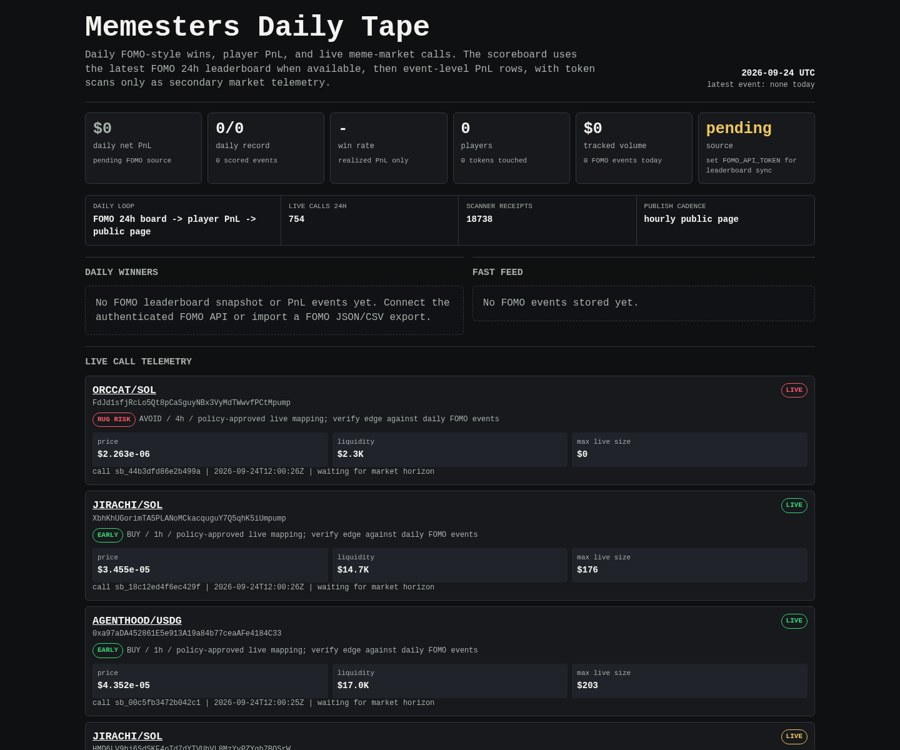
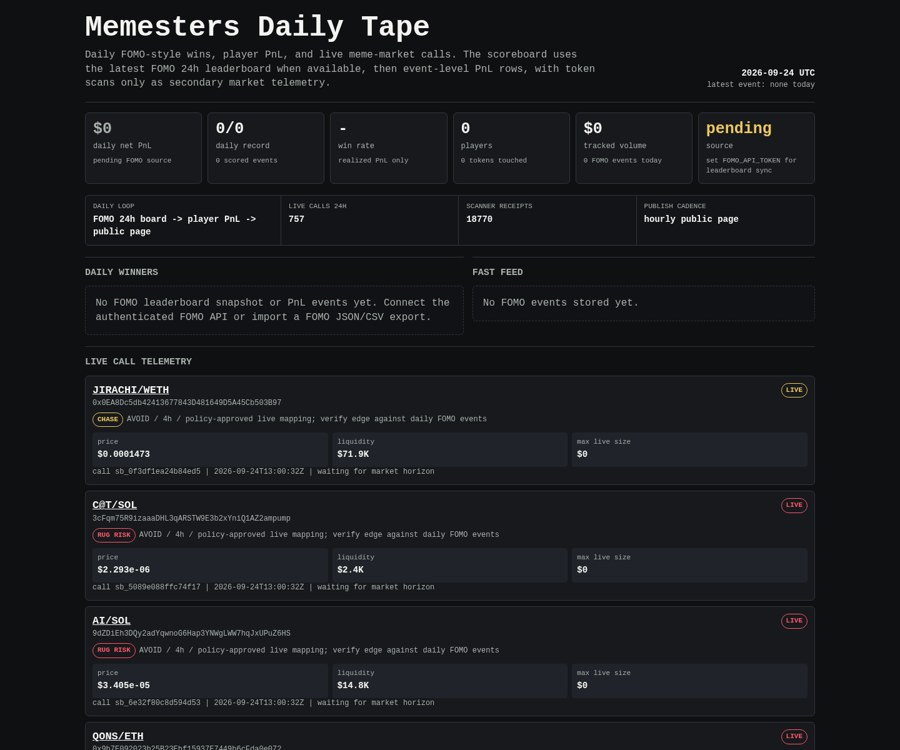
Update Memesters scoreboard

diff --git a/memesters/index.html b/memesters/index.html
@@ -149,8 +149,8 @@
 
     <div class="rail" aria-label="live operating loop">
       <div><span>daily loop</span><b>FOMO 24h board -> player PnL -> public page</b></div>
-      <div><span>live calls 24h</span><b>754</b></div>
-      <div><span>scanner receipts</span><b>18738</b></div>
+      <div><span>live calls 24h</span><b>757</b></div>
+      <div><span>scanner receipts</span><b>18770</b></div>
       <div><span>publish cadence</span><b>hourly public page</b></div>
     </div>
 
@@ -171,8 +171,29 @@
     <article class="receipt">
       <div class="receipt-head">
         <div>
-          <div class="pair"><a href="https://dexscreener.com/solana/2dbsvexhxyrkfte5bjnam1fgcdduohkswhtqviohlkds">ORCCAT/SOL</a></div>
-          <div class="addr">FdJd1sfjRcLo5Qt8pCaSguyNBx3VyMdTWwvfPCtMpump</div>
+          <div class="pair"><a href="https://dexscreener.com/robinhood/0xac9fee60bbf4c04070ee8cc69b406f152ab2ea06">JIRACHI/WETH</a></div>
+          <div class="addr">0x0EA8Dc5db42413677843D481649D5A45Cb503B97</div>
+          <div class="addr policy-line">
+            <span class="badge chase">CHASE</span>
+            <span>AVOID / 4h / policy-approved live mapping; verify edge against daily FOMO events</span>
+          </div>
+        </div>
+        <span class="badge chase">LIVE</span>
+      </div>
+      <div class="receipt-grid">
+        <div class="kv"><span>price</span><b>$0.0001473</b></div>
+        <div class="kv"><span>liquidity</span><b>$71.9K</b></div>
+        <div class="kv"><span>max live size</span><b>$0</b></div>
+      </div>
+      <div class="outcomes">call sb_0f3df1ea24b84ed5 | 2026-09-24T13:00:32Z | waiting for market horizon</div>
+    </article>
+    
+
+    <article class="receipt">
+      <div class="receipt-head">
+        <div>
+          <div class="pair"><a href="https://dexscreener.com/solana/fq843hxgsswwjkngyiudabyoadknbp5hpfvmmnt1aj1x">C@T/SOL</a></div>
+          <div class="addr">3cFqm75R9izaaaDHL3qARSTW9E3b2xYniQ1AZ2ampump</div>
           <div class="addr policy-line">
             <span class="badge rug-risk">RUG RISK</span>
             <span>AVOID / 4h / policy-approved live mapping; verify edge against daily FOMO events</span>
@@ -181,145 +202,19 @@
         <span class="badge rug-risk">LIVE</span>
       </div>
       <div class="receipt-grid">
-        <div class="kv"><span>price</span><b>$2.263e-06</b></div>
-        <div class="kv"><span>liquidity</span><b>$2.3K</b></div>
+        <div class="kv"><span>price</span><b>$2.293e-06</b></div>
+        <div class="kv"><span>liquidity</span><b>$2.4K</b></div>
         <div class="kv"><span>max live size</span><b>$0</b></div>
       </div>
-      <div class="outcomes">call sb_44b3dfd86e2b499a | 2026-09-24T12:00:26Z | waiting for market horizon</div>
+      <div class="outcomes">call sb_5089e088ffc74f17 | 2026-09-24T13:00:32Z | waiting for market horizon</div>
     </article>
     
 
     <article class="receipt">
       <div class="receipt-head">
         <div>
-          <div class="pair"><a href="https://dexscreener.com/solana/azshgyg66hrgmfkjnaylz31t6sujvo1pjj2gqwcpubds">JIRACHI/SOL</a></div>
-          <div class="addr">XbhKhUGorimTA5PLANoMCkacquguY7Q5qhK5iUmpump</div>
-          <div class="addr policy-line">
-            <span class="badge early">EARLY</span>
-            <span>BUY / 1h / policy-approved live mapping; verify edge against daily FOMO events</span>
-          </div>
-        </div>
-        <span class="badge early">LIVE</span>
-      </div>
-      <div class="receipt-grid">
-        <div class="kv"><span>price</span><b>$3.455e-05</b></div>
-        <div class="kv"><span>liquidity</span><b>$14.7K</b></div>
-        <div class="kv"><span>max live size</span><b>$176</b></div>
-      </div>
-      <div class="outcomes">call sb_18c12ed4f6ec429f | 2026-09-24T12:00:26Z | waiting for market horizon</div>
-    </article>
-    
-
-    <article class="receipt">
-      <div class="receipt-head">
-        <div>
-          <div class="pair"><a href="https://dexscreener.com/robinhood/0x21406527cf848a3383e523c69b1f4c6d878bfcaee8ef8a7bbda810b523abb92c">AGENTHOOD/USDG</a></div>
-          <div class="addr">0xa97aDA452861E5e913A19a84b77ceaAFe4184C33</div>
-          <div class="addr policy-line">
-            <span class="badge early">EARLY</span>
-            <span>BUY / 1h / policy-approved live mapping; verify edge against daily FOMO events</span>
-          </div>
-        </div>
-        <span class="badge early">LIVE</span>
-      </div>
-      <div class="receipt-grid">
-        <div class="kv"><span>price</span><b>$4.352e-05</b></div>
-        <div class="kv"><span>liquidity</span><b>$17.0K</b></div>
-        <div class="kv"><span>max live size</span><b>$203</b></div>
-      </div>
-      <div class="outcomes">call sb_00c5fb3472b042c1 | 2026-09-24T12:00:25Z | waiting for market horizon</div>
-    </article>
-    
-
-    <article class="receipt">
-      <div class="receipt-head">
-        <div>
-          <div class="pair"><a href="https://dexscreener.com/solana/2jgebsxh9bznbez1txyghhngibbgaz4fhaevfxt4sqfm">JIRACHI/SOL</a></div>
-          <div class="addr">HMD6LV9hj6SdSKF4oTd7dYTVUhVL8MzYvPZYgb7BQSrW</div>
-          <div class="addr policy-line">
-            <span class="badge chase">CHASE</span>
-            <span>AVOID / 4h / policy-approved live mapping; verify edge against daily FOMO events</span>
-          </div>
-        </div>
-        <span class="badge chase">LIVE</span>
-      </div>
-      <div class="receipt-grid">
-        <div class="kv"><span>price</span><b>$0.0005987</b></div>
-        <div class="kv"><span>liquidity</span><b>$90.1K</b></div>
-        <div class="kv"><span>max live size</span><b>$0</b></div>
-      </div>
-      <div class="outcomes">call sb_291593d9ba214fd3 | 2026-09-24T12:00:25Z | waiting for market horizon</div>
-    </article>
-    
-
-    <article class="receipt">
-      <div class="receipt-head">
-        <div>
-          <div class="pair"><a href="https://dexscreener.com/robinhood/0x507006dfe188d49a8576240570782a222114f849">WUG/WETH</a></div>
-          <div class="addr">0xfd7C08E130d95b26C80F4cC8ffdb2FFB189fe2b2</div>
-          <div class="addr policy-line">
-            <span class="badge early">EARLY</span>
-            <span>BUY / 1h / policy-approved live mapping; verify edge against daily FOMO events</span>
-          </div>
-        </div>
-        <span class="badge early">LIVE</span>
-      </div>
-      <div class="receipt-grid">
-        <div class="kv"><span>price</span><b>$1.016e-05</b></div>
-        <div class="kv"><span>liquidity</span><b>$8.6K</b></div>
-        <div class="kv"><span>max live size</span><b>$26</b></div>
-      </div>
-      <div class="outcomes">call sb_dbdecb176a894f93 | 2026-09-24T12:00:25Z | waiting for market horizon</div>
-    </article>
-    
-
-    <article class="receipt">
-      <div class="receipt-head">
-        <div>
-          <div class="pair"><a href="https://dexscreener.com/robinhood/0x7b282a8b7f37bc92e4906969d8a46f836cb21605cf330ce0c33607fb1075c1df">RHV/ETH</a></div>
-          <div class="addr">0x82c860E9fF0227E086CB6107dA4D3632031D9831</div>
-          <div class="addr policy-line">
-            <span class="badge chase">CHASE</span>
-            <span>AVOID / 4h / policy-approved live mapping; verify edge against daily FOMO events</span>
-          </div>
-        </div>
-        <span class="badge chase">LIVE</span>
-      </div>
-      <div class="receipt-grid">
-        <div class="kv"><span>price</span><b>$0.001419</b></div>
-        <div class="kv"><span>liquidity</span><b>$112.5K</b></div>
-        <div class="kv"><span>max live size</span><b>$0</b></div>
-      </div>
-      <div class="outcomes">call sb_c5e54e1360724ca9 | 2026-09-24T12:00:25Z | waiting for market horizon</div>
-    </article>
-    
-
-    <article class="receipt">
-      <div class="receipt-head">
-        <div>
-          <div class="pair"><a href="https://dexscreener.com/arc/0xed979d863d639a72771df12f12fc2c9d7e21a6cf79b2859ea07ebde1314175ab">https/USDC</a></div>
-          <div class="addr">0xcA178326937DCF04157F2E6370674655c57D7A75</div>
-          <div class="addr policy-line">
-            <span class="badge chase">CHASE</span>
-            <span>AVOID / 4h / policy-approved live mapping; verify edge against daily FOMO events</span>
-          </div>
-        </div>
-        <span class="badge chase">LIVE</span>
-      </div>
-      <div class="receipt-grid">
-        <div class="kv"><span>price</span><b>$1.804e-05</b></div>
-        <div class="kv"><span>liquidity</span><b>$10.9K</b></div>
-        <div class="kv"><span>max live size</span><b>$0</b></div>
-      </div>
-      <div class="outcomes">call sb_a638a20d71f84ba1 | 2026-09-24T12:00:25Z | waiting for market horizon</div>
-    </article>
-    
-
-    <article class="receipt">
-      <div class="receipt-head">
-        <div>
-          <div class="pair"><a href="https://dexscreener.com/bsc/0x678cb5b5e12c12b825b12e92166497b707d66d54">CypherPunks/CYPHB</a></div>
-          <div class="addr">0x9e7a35106527449120CF15043899f9e23aC37777</div>
+          <div class="pair"><a href="https://dexscreener.com/solana/arklvttrdcivpgbbmn9pxfa2ynauwkhbty7unqekyrg">AI/SOL</a></div>
+          <div class="addr">9dZDiEh3DQy2adYqwnoG6Hap3YNWgLWW7hqJxUPuZ6HS</div>
           <div class="addr policy-line">
             <span class="badge rug-risk">RUG RISK</span>
             <span>AVOID / 4h / policy-approved live mapping; verify edge against daily FOMO events</span>
@@ -328,19 +223,19 @@
         <span class="badge rug-risk">LIVE</span>
       </div>
       <div class="receipt-grid">
-        <div class="kv"><span>price</span><b>$2.811e-05</b></div>
-        <div class="kv"><span>liquidity</span><b>$13.7K</b></div>
+        <div class="kv"><span>price</span><b>$3.405e-05</b></div>
+        <div class="kv"><span>liquidity</span><b>$14.8K</b></div>
         <div class="kv"><span>max live size</span><b>$0</b></div>
       </div>
-      <div class="outcomes">call sb_39ddaffe5f9349fc | 2026-09-24T12:00:25Z | waiting for market horizon</div>
+      <div class="outcomes">call sb_6e32f80c8d594d53 | 2026-09-24T13:00:32Z | waiting for market horizon</div>
     </article>
     
 
     <article class="receipt">
       <div class="receipt-head">
         <div>
-          <div class="pair"><a href="https://dexscreener.com/solana/dbxthuh558t6nnywiez2xvvrmhque1ypy6qkvqq1jzeu">RWT/GP</a></div>
-          <div class="addr">6tabWKDy8cUuuNLn5VnMkj8ijSmrKhGAprb8uBqV71Mf</div>
+          <div class="pair"><a href="https://dexscreener.com/robinhood/0xb1b2e9704288bc89e1259f43d6b546b9a392f7395a6d9d6f4ecee6af2792b4dc">QONS/ETH</a></div>
+          <div class="addr">0x9b7E092023b25B23Ebf15937E7449b6cFda0e072</div>
           <div class="addr policy-line">
             <span class="badge rug-risk">RUG RISK</span>
             <span>AVOID / 4h / policy-approved live mapping; verify edge against daily FOMO events</span>
@@ -349,19 +244,61 @@
         <span class="badge rug-risk">LIVE</span>
       </div>
       <div class="receipt-grid">
-        <div class="kv"><span>price</span><b>$3.12e-05</b></div>
-        <div class="kv"><span>liquidity</span><b>$15.9K</b></div>
+        <div class="kv"><span>price</span><b>$9.698e-06</b></div>
+        <div class="kv"><span>liquidity</span><b>$9.4K</b></div>
         <div class="kv"><span>max live size</span><b>$0</b></div>
       </div>
-      <div class="outcomes">call sb_f21ddcb0a94045fa | 2026-09-24T11:45:26Z | waiting for market horizon</div>
+      <div class="outcomes">call sb_776aa18207f846d6 | 2026-09-24T13:00:32Z | waiting for market horizon</div>
     </article>
     
 
     <article class="receipt">
       <div class="receipt-head">
         <div>
-          <div class="pair"><a href="https://dexscreener.com/solana/ac9v1xvcdyf7oreihhqjzdwt1zy8kgknhacwk2u3kavc">.agent/SOL</a></div>
-          <div class="addr">G59zeXWwXMw2bb6UJD1ceELXRhNkLXHkYrtBYBV5agnt</div>
+          <div class="pair"><a href="https://dexscreener.com/solana/fehmt7wqfjcltebdwgmbgjiiuhrqhsryn9xm1zwhfhx2">Felis/SOL</a></div>
+          <div class="addr">J4yqaoHpq6VWKSHgnaU6qEM2ncoCCtNAVWxdF77Bpump</div>
+          <div class="addr policy-line">
+            <span class="badge early">EARLY</span>
+            <span>BUY / 1h / policy-approved live mapping; verify edge against daily FOMO events</span>
+          </div>
+        </div>
+        <span class="badge early">LIVE</span>
+      </div>
+      <div class="receipt-grid">
+        <div class="kv"><span>price</span><b>$6.33e-05</b></div>
+        <div class="kv"><span>liquidity</span><b>$20.8K</b></div>
+        <div class="kv"><span>max live size</span><b>$249</b></div>
+      </div>
+      <div class="outcomes">call sb_2d987aa576cd4e22 | 2026-09-24T13:00:32Z | waiting for market horizon</div>
+    </article>
+    
+
+    <article class="receipt">
+      <div class="receipt-head">
+        <div>
+          <div class="pair"><a href="https://dexscreener.com/solana/fxu7xwchdqtxlidkzwruclqn7qbhdbuc4zrgxs8gfqpy">CUMINU/SOL</a></div>
+          <div class="addr">86ZdrdVsXPdQ3mMfoEUYhukshxJvgtttuiczfn2ipump</div>
+          <div class="addr policy-line">
+            <span class="badge early">EARLY</span>
+            <span>BUY / 1h / policy-approved live mapping; verify edge against daily FOMO events</span>
+          </div>
+        </div>
+        <span class="badge early">LIVE</span>
+      </div>
+      <div class="receipt-grid">
+        <div class="kv"><span>price</span><b>$0.000118</b></div>
+        <div class="kv"><span>liquidity</span><b>$29.1K</b></div>
+        <div class="kv"><span>max live size</span><b>$350</b></div>
+      </div>
+      <div class="outcomes">call sb_d2b84990e0304a86 | 2026-09-24T13:00:31Z | waiting for market horizon</div>
+    </article>
+    
+
+    <article class="receipt">
+      <div class="receipt-head">
+        <div>
+          <div class="pair"><a href="https://dexscreener.com/bsc/0xe7d96ee587d5d6120233df826d17b30342f4ca3b">Rat Lab/AMZNB</a></div>
+          <div class="addr">0x2aaA8077b40A5338282015E658aa68E389187777</div>
           <div class="addr policy-line">
             <span class="badge chase">CHASE</span>
             <span>AVOID / 4h / policy-approved live mapping; verify edge against daily FOMO events</span>
@@ -370,11 +307,74 @@
         <span class="badge chase">LIVE</span>
       </div>
       <div class="receipt-grid">
-        <div class="kv"><span>price</span><b>$0.0002614</b></div>
-        <div class="kv"><span>liquidity</span><b>$46.3K</b></div>
+        <div class="kv"><span>price</span><b>$1.445e-05</b></div>
+        <div class="kv"><span>liquidity</span><b>$14.2K</b></div>
         <div class="kv"><span>max live size</span><b>$0</b></div>
       </div>
-      <div class="outcomes">call sb_7ae2a2749e714dbc | 2026-09-24T11:45:26Z | waiting for market horizon</div>
+      <div class="outcomes">call sb_7695f56ad95548c5 | 2026-09-24T13:00:31Z | waiting for market horizon</div>
+    </article>
+    
+
+    <article class="receipt">
+      <div class="receipt-head">
+        <div>
+          <div class="pair"><a href="https://dexscreener.com/solana/brybnvs89addtkmeqmgplydxeupdwwqpnr1slaisnhc6">SANDCAT/SOL</a></div>
+          <div class="addr">hycYxx4mSKC1df6EJq18migjZ5sfBY3a2xHYjmhpump</div>
+          <div class="addr policy-line">
+            <span class="badge early">EARLY</span>
+            <span>BUY / 1h / policy-approved live mapping; verify edge against daily FOMO events</span>
+          </div>
+        </div>
+        <span class="badge early">LIVE</span>
+      </div>
+      <div class="receipt-grid">
+        <div class="kv"><span>price</span><b>$4.689e-05</b></div>
+        <div class="kv"><span>liquidity</span><b>$17.4K</b></div>
+        <div class="kv"><span>max live size</span><b>$101</b></div>
+      </div>
+      <div class="outcomes">call sb_23dd9bcc5d5343dd | 2026-09-24T13:00:31Z | waiting for market horizon</div>
+    </article>
+    
+
+    <article class="receipt">
+      <div class="receipt-head">
+        <div>
+          <div class="pair"><a href="https://dexscreener.com/solana/9tmq92wdtnsj8oa3zyiybsehn41n6b4nadcg3vgrwz5r">ape/xSOL</a></div>
+          <div class="addr">BszGuLK9RLJ7YHgia55kwcWAuTodx1AwGFLGUcDoxRCK</div>
+          <div class="addr policy-line">
+            <span class="badge rug-risk">RUG RISK</span>
+            <span>AVOID / 4h / policy-approved live mapping; verify edge against daily FOMO events</span>
+          </div>
+        </div>
+        <span class="badge rug-risk">LIVE</span>
+      </div>
+      <div class="receipt-grid">
+        <div class="kv"><span>price</span><b>$5.433e-06</b></div>
+        <div class="kv"><span>liquidity</span><b>$6.7K</b></div>
+        <div class="kv"><span>max live size</span><b>$0</b></div>
+      </div>
+      <div class="outcomes">call sb_2f5c988ac1ab4296 | 2026-09-24T12:45:28Z | waiting for market horizon</div>
+    </article>
+    
+
+    <article class="receipt">
+      <div class="receipt-head">
+        <div>
+          <div class="pair"><a href="https://dexscreener.com/arc/0x18262c7386e0b97ca609099e825ea912526377b61de19796a9c24151eadda258">ARCO/USDC</a></div>
+          <div class="addr">0xFDFEa8a291B93ed898A2c2609f7c33bd391fFD4c</div>
+          <div class="addr policy-line">
+            <span class="badge early">EARLY</span>
+            <span>BUY / 1h / policy-approved live mapping; verify edge against daily FOMO events</span>
+          </div>
+        </div>
+        <span class="badge early">LIVE</span>
+      </div>
+      <div class="receipt-grid">
+        <div class="kv"><span>price</span><b>$1.649e-05</b></div>
+        <div class="kv"><span>liquidity</span><b>$15.7K</b></div>
+        <div class="kv"><span>max live size</span><b>$25</b></div>
+      </div>
+      <div class="outcomes">call sb_7497056e4a774022 | 2026-09-24T12:45:28Z | waiting for market horizon</div>
     </article>
     
     </section>
